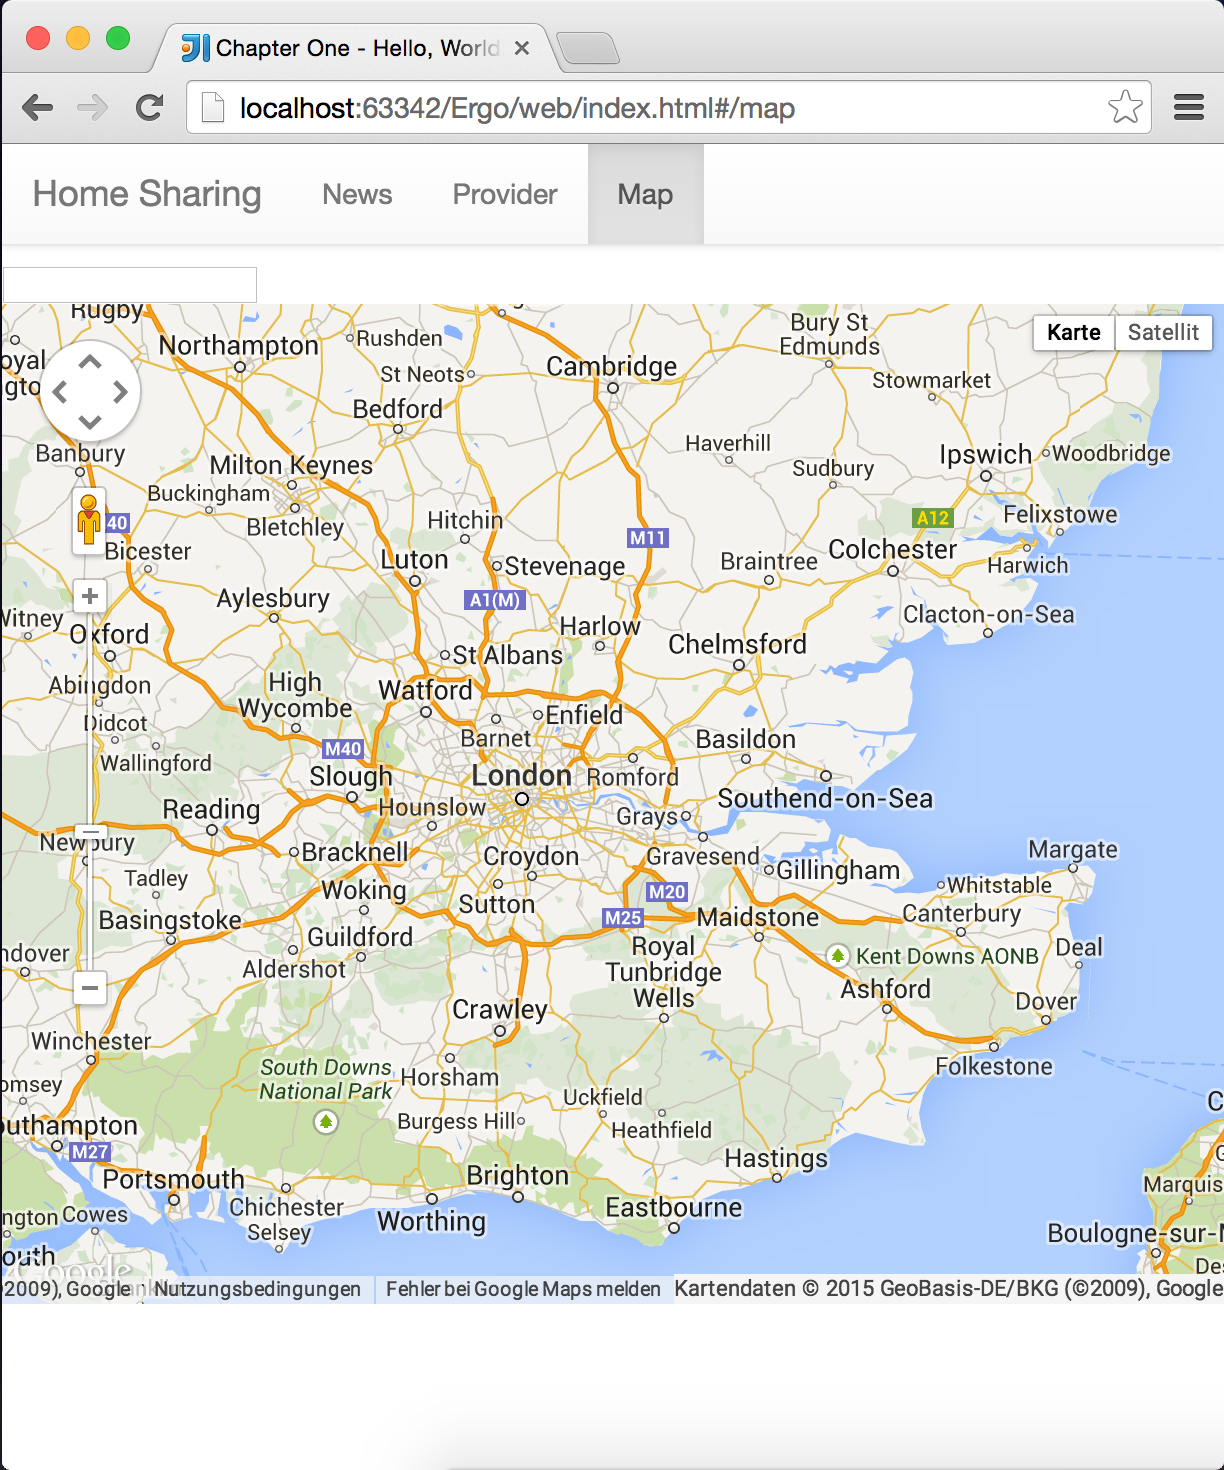
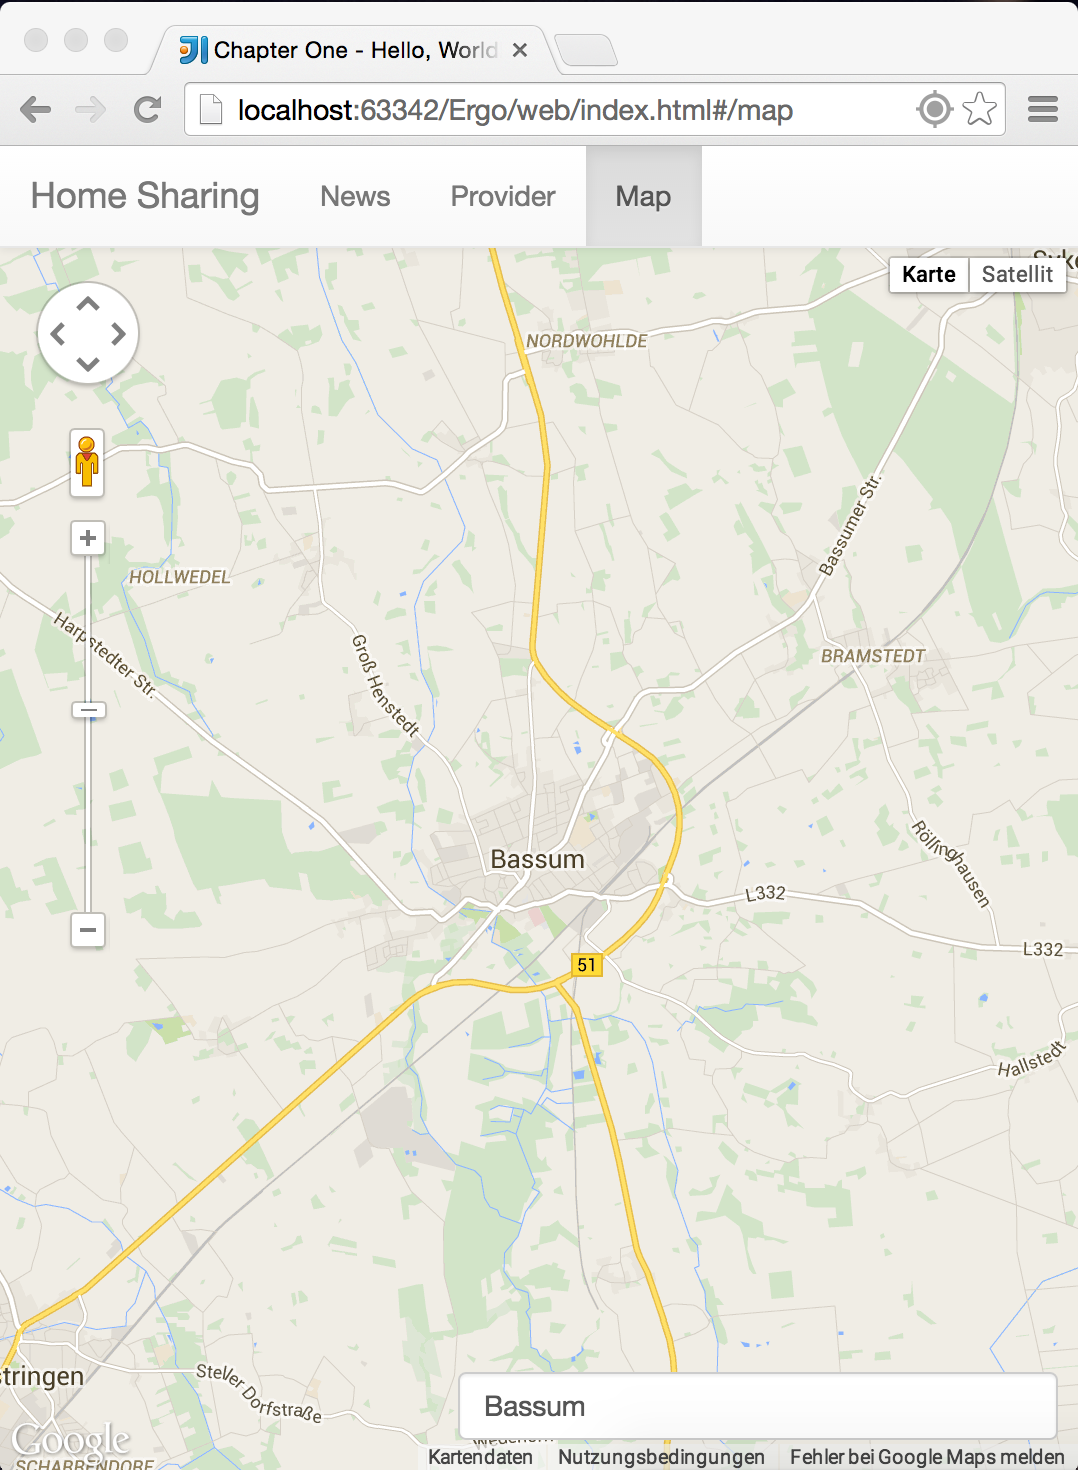
updated map

diff --git a/lib/component/map/map.dart b/lib/component/map/map.dart
@@ -1,8 +1,9 @@
 library Ergo.component.map;
 
-import 'package:angular/angular.dart';
 import 'dart:html';
-import 'dart:js';
+
+import 'package:angular/angular.dart';
+import 'package:google_maps/google_maps.dart';
 
 /**
  * A component with a simple template which the Javascript Google Maps API
@@ -11,20 +12,55 @@ import 'dart:js';
 @Component(
     selector: 'map',
     templateUrl: 'packages/Ergo/component/map/map.html',
-    cssUrl: 'map.css')
+    cssUrl: 'map.css',
+    useShadowDom: false)
 class MapComponent implements ShadowRootAware {
+  String _place = "Köln";
   var map;
-  String location;
 
-  onShadowRoot(root) {
-    // From https://code.google.com/p/dart/source/browse/branches/bleeding_edge/dart/samples/google_maps/web/index.dart
-    final gmaps = context['google']['maps'];
-    var london = new JsObject(gmaps['LatLng'], [51.5, 0.125]);
-    var mapOptions = new JsObject.jsify({
-        "center": london,
-        "zoom": 8,
+  set place(String place) {
+    _place = place;
+
+    final request = new GeocoderRequest()
+      ..address = _place
+    ;
+
+    new Geocoder().geocode(request, (List<GeocoderResult> results, GeocoderStatus status) {
+      if (status == GeocoderStatus.OK) {
+        map.center = results[0].geometry.location;
+      }
     });
-
-    map = new JsObject(gmaps['Map'], [root.querySelector('div'), mapOptions]);
   }
+
+  get place => _place;
+
+  @override
+  onShadowRoot(ShadowRoot shadowRoot) {
+    updateMap();
+  }
+
+  updateMap() {
+    final mapOptions = new MapOptions()
+      ..zoom = 8
+      ..center = new LatLng(50.936039090088215, 6.96121215820312)
+      ..mapTypeId = MapTypeId.ROADMAP
+    ;
+    map = new GMap(querySelector("#map_canvas"), mapOptions);
+
+
+    querySelector("#map_canvas").style.height = (window.innerHeight - 50).toString()+"px";
+    querySelector("#place").style.top = (window.innerHeight - 50).toString()+"px";
+
+
+    // try to get location
+    if (window.navigator.geolocation != null) {
+      window.navigator.geolocation.getCurrentPosition().then((position) {
+        map.center = new LatLng(position.coords.latitude, position.coords.longitude);
+      }, onError : (error) {
+        window.console.log("Can't get geo location");
+      });
+    }
+  }
+
+
 }

diff --git a/web/index.html b/web/index.html
@@ -5,8 +5,6 @@
     <script src="packages/web_components/platform.js"></script>
     <script src="packages/web_components/dart_support.js"></script>
 
-    <script type="text/javascript" src="https://maps.googleapis.com/maps/api/js?key=AIzaSyCYWvwtZy5UZ_O_0mG4V-sq-fQ2_yy84-Y"></script>
-
     <link rel="stylesheet" href="bootstrap-3.3.2/css/bootstrap.min.css">
     <link rel="stylesheet" href="bootstrap-3.3.2/css/bootstrap-theme.css">
     <link rel="stylesheet" href="style.css">
@@ -17,5 +15,6 @@
 
 <script type="application/dart" src="main.dart"></script>
 <script type="text/javascript" src="packages/browser/dart.js"></script>
+<script src="https://maps.googleapis.com/maps/api/js?v=3.exp"></script>
 </body>
 </html>

diff --git a/lib/component/map/map.css b/lib/component/map/map.css
@@ -1,4 +1,11 @@
-.map {
-    height: 500px;
-    width: 100%;
+#map_canvas {
+    height: 300px;
+    margin-top: -10px;
+}
+
+#place {
+    position: absolute;
+    top: 100px;
+    right: 10px;
+    width: 300px;
 }

diff --git a/lib/component/map/map.html b/lib/component/map/map.html
@@ -1,2 +1,5 @@
-<input type="text" ng-model="location"/>
-<div class="map">try to load the map</div>
+<div id="map_canvas"></div>
+
+<input type="text" id="place" class="form-control map_input" ng-model="place">
+
+
